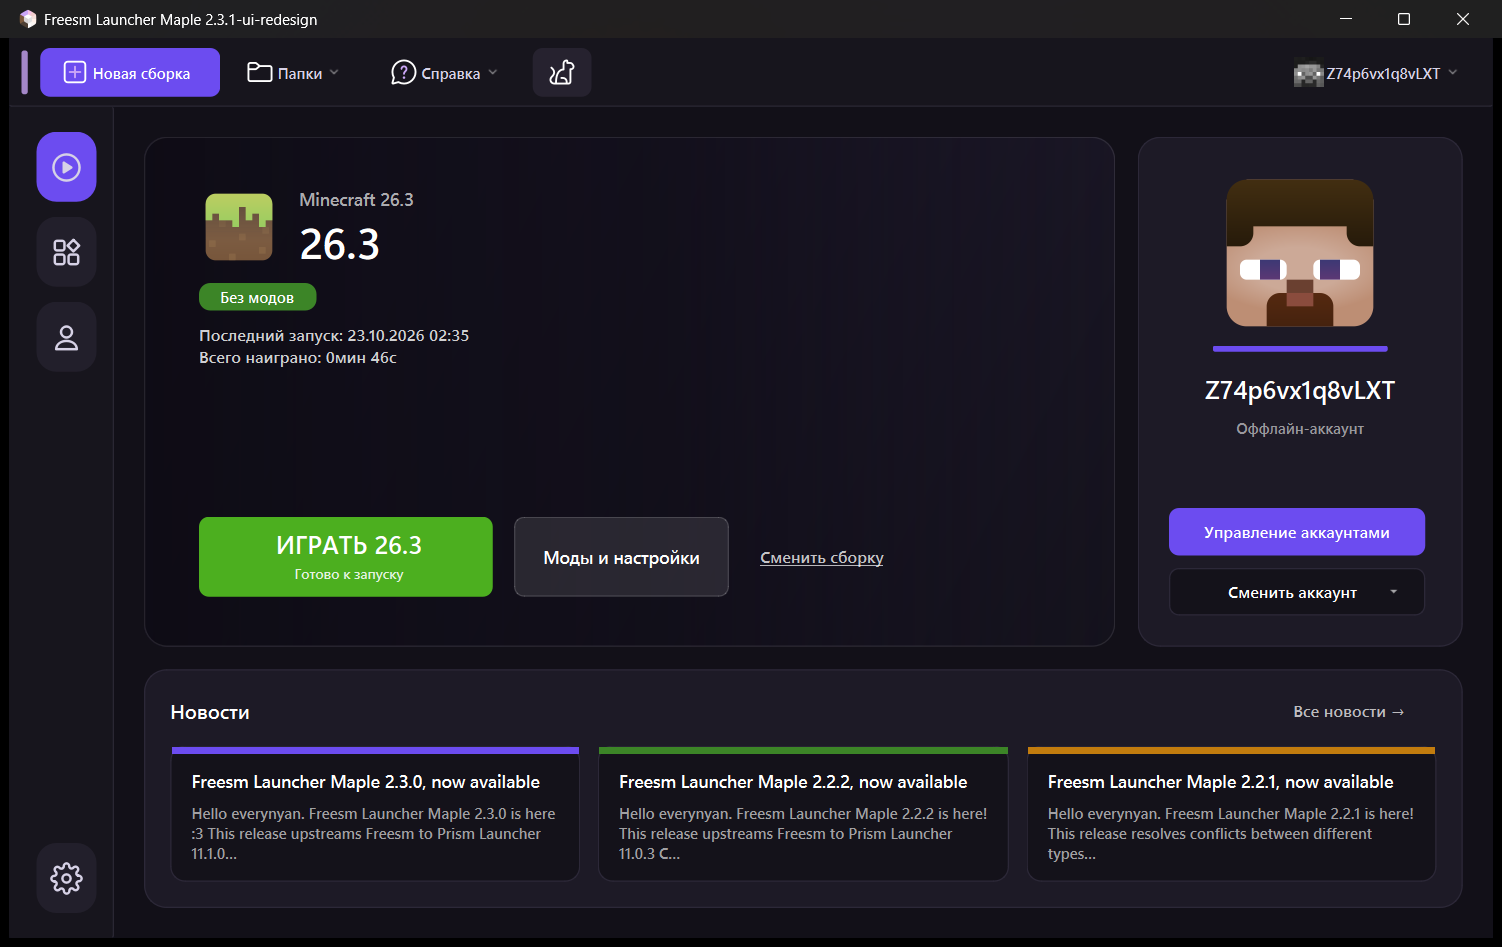
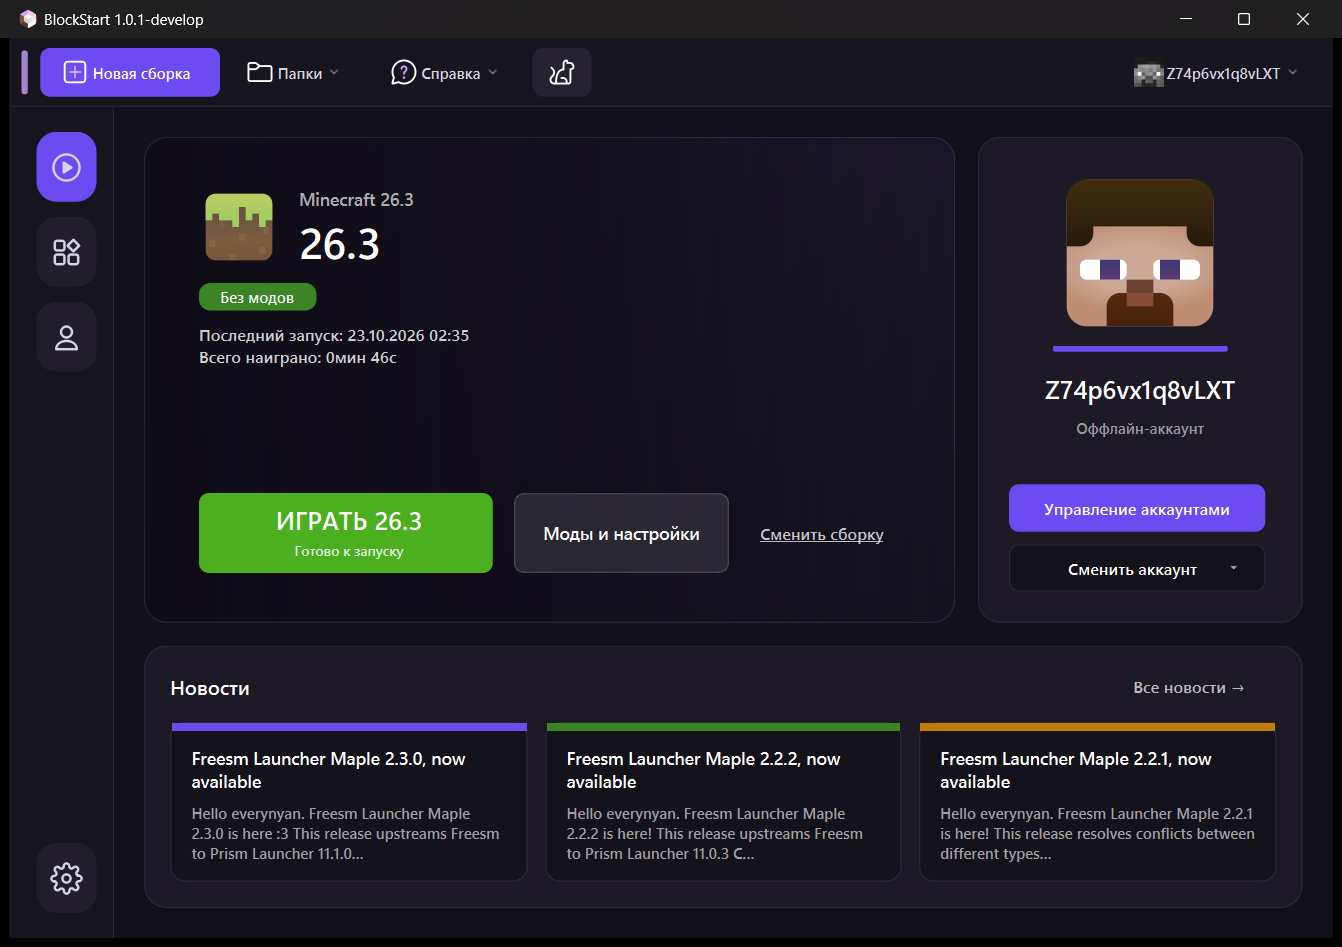
feat: rename the launcher to BlockStart
- display name, common name and version 1.0.1
- bug tracker and updater point to this repository
- release build ships BlockStart.exe (internal binary name stays freesmlauncher for the Microsoft login redirect)
- window title skips the empty codename

diff --git a/launcher/Application.cpp b/launcher/Application.cpp
@@ -336,8 +336,10 @@ Application::Application(int& argc, char** argv) : QApplication(argc, argv)
     setOrganizationName(BuildConfig.LAUNCHER_NAME);
     setOrganizationDomain(BuildConfig.LAUNCHER_DOMAIN);
     setApplicationName(BuildConfig.LAUNCHER_NAME);
-    setApplicationDisplayName(
-        QString("%1 %2 %3").arg(BuildConfig.LAUNCHER_DISPLAYNAME, BuildConfig.VERSION_CODENAME, BuildConfig.printableVersionString()));
+    // the codename is optional, skip it so the title has no double space
+    QStringList displayName{ BuildConfig.LAUNCHER_DISPLAYNAME, BuildConfig.VERSION_CODENAME, BuildConfig.printableVersionString() };
+    displayName.removeAll(QString());
+    setApplicationDisplayName(displayName.join(' '));
     setApplicationVersion(BuildConfig.printableVersionString() + "\n" + BuildConfig.GIT_COMMIT);
     setDesktopFileName(BuildConfig.LAUNCHER_APPID);
     m_startTime = QDateTime::currentDateTime();

diff --git a/launcher/ui/dialogs/AboutDialog.cpp b/launcher/ui/dialogs/AboutDialog.cpp
@@ -92,7 +92,7 @@ AboutDialog::AboutDialog(QWidget* parent) : QDialog(parent), ui(new Ui::AboutDia
     ui->icon->setPixmap(APPLICATION->logo().pixmap(64));
     ui->title->setText(launcherName);
 
-    ui->versionLabel->setText(QString("%1 %2").arg(BuildConfig.VERSION_CODENAME, BuildConfig.printableVersionString()));
+    ui->versionLabel->setText(QString("%1 %2").arg(BuildConfig.VERSION_CODENAME, BuildConfig.printableVersionString()).trimmed());
 
     if (!BuildConfig.BUILD_PLATFORM.isEmpty())
         ui->platformLabel->setText(tr("Platform") + ": " + BuildConfig.BUILD_PLATFORM);

diff --git a/README.md b/README.md
@@ -16,7 +16,7 @@
 
 ## Скачать
 
-Готовая переносная версия для Windows лежит в разделе [Releases](../../releases). Распакуйте архив и запустите `freesmlauncher.exe`. Установка не нужна, все данные хранятся рядом с программой.
+Готовая переносная версия для Windows лежит в разделе [Releases](../../releases). Распакуйте архив и запустите `BlockStart.exe`. Установка не нужна, все данные хранятся рядом с программой.
 
 ## Сборка из исходников (Windows)
 
